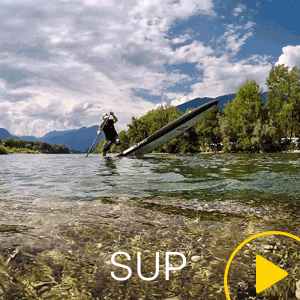
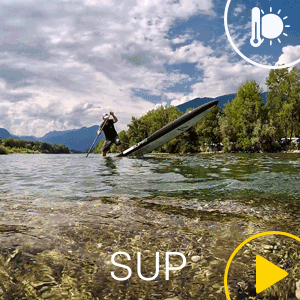
Updated Readme File and Screenshots

Changed region(s): [[0.78, 0.0, 1.0, 0.24], [0.72, 0.0, 0.78, 0.15]]

diff --git a/README.md b/README.md
@@ -12,8 +12,14 @@ Displays important statistics such as:
 - total session duration
 
 **Please Note:**
-The exercise name is not shown correctly on the activity screen on the fitbit website. This is a known bug on the Fitbit API.
+The exercise name is shown as cycling on the activity screen on the fitbit website. This is a known bug on the Fitbit API and will be fixed by Fitbit.
+
+When water is on the touch screen there is a slightly chance that the activity is pausing
+
 I am using the step detection for counting the strokes. I tested it multiple times while paddling and I am quite happy with the count.
+
+Please don't hesitate to contact me with questions or suggestions; but be sure to let me know which watch and software version you are talking about. This app will always be free and Open Source. If you really like my app please consider buying me a coffee (or more likely electronic components). Thanks!
+
 If you find problems or other things, please post add Github issues, or discuss in [this](https://community.fitbit.com/t5/Fitbit-App-Gallery/SUP-Support/m-p/3169975#M7201) forum thread and I will try to fix the issues.
 
 ## Further ideas (Help appreciated)
@@ -27,6 +33,9 @@ If you find problems or other things, please post add Github issues, or discuss 
 - Disable touchscreen while activity is running
 
 ## Updates
+### Release 2.0
+- Added Weather Module; Updated Settings
+
 ### Release 1.2.5
 - Smaller font size because the time was cut off when training lasted more than one hour
 - Updated to SDK 3.1.2
@@ -70,6 +79,7 @@ If you find problems or other things, please post add Github issues, or discuss 
 ![screenshot](/screenshots/versa-5.png)
 ![screenshot](/screenshots/versa-6.png)
 ![screenshot](/screenshots/versa-7.png)
+![screenshot](/screenshots/versa-8.png)
 
 ### Ionic Screenshots
 ![screenshot](/screenshots/ionic-1.png)
@@ -79,5 +89,6 @@ If you find problems or other things, please post add Github issues, or discuss 
 ![screenshot](/screenshots/ionic-5.png)
 ![screenshot](/screenshots/ionic-6.png)
 ![screenshot](/screenshots/ionic-7.png)
+![screenshot](/screenshots/ionic-8.png)
 
-The application uses the Exercise API added in Fitbit OS 3.1 and is based on the sdk-exercise by Jon Barlow.
+The application uses the Exercise API added in Fitbit OS 3.1 and is based on the sdk-exercise by Jon Barlow and the fitbit-weather module by Grégoire Sage
